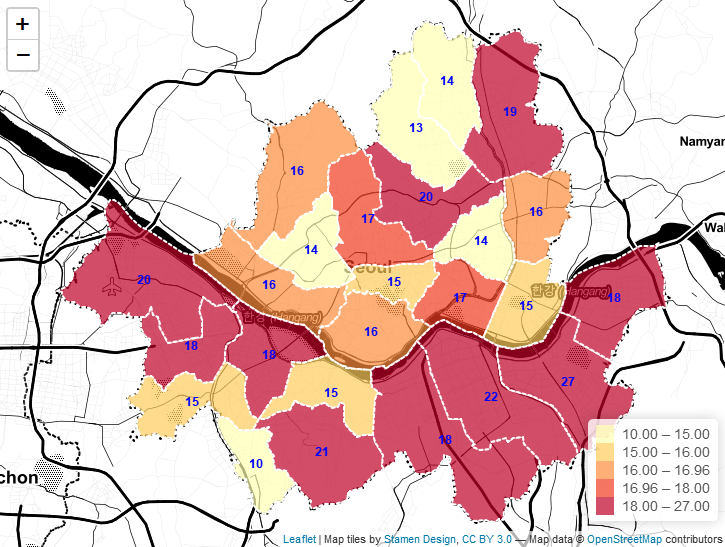
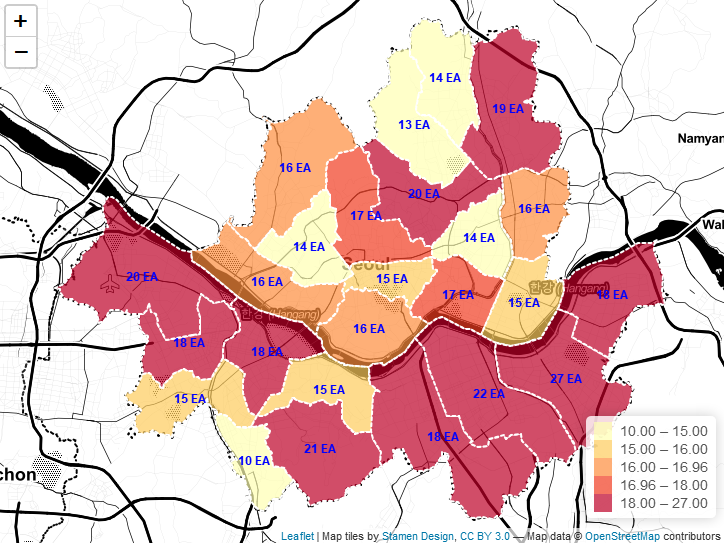
add text.format option

diff --git a/README.md b/README.md
@@ -75,8 +75,11 @@ seoul
 
 #### Example 4
 
-##### Change color palette & center number on polygons text color & change background map
+##### Change color palette & center number on polygons text color, format & change background map
 
-    valuemap(seoul, map=leaflet::providers$Stamen.Toner, palette='YlOrRd', text.color='blue')
+    valuemap(
+      seoul, map=providers$Stamen.Toner, palette='YlOrRd',
+      text.color='blue', text.format=function(x) paste(x,'EA')
+    )
 
 ![](example_4.PNG)
